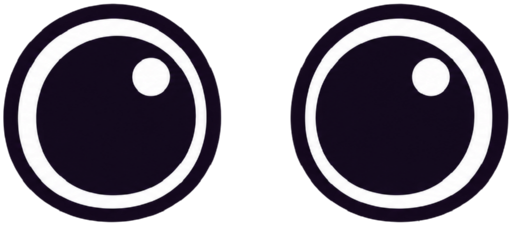
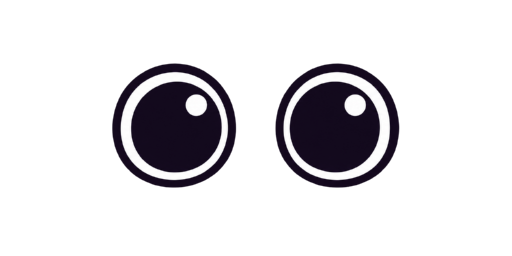
Арт: довольные глаза; cutout --notrim для наборов вариантов

diff --git a/src/config.js b/src/config.js
@@ -136,7 +136,7 @@ export const CONFIG = {
     body: { x: 0, y: 58, artScale: 0.13, originX: 0.5, originY: 1 }, // y — низ лап
     leg: { x: 11, y: 29, artScale: 0.065, artScaleX: 0.09, originX: 0.5, originY: 0.06 },  // x/y — «плечо» левой лапы, правая зеркально
     head: { x: 0, y: -22, artScale: 0.16, artY: -12 },
-    eyes: { x: 0, y: -6, artScale: 0.085 },
+    eyes: { x: 0, y: -6, artScale: 0.146 },  // глаза и рты — без обрезки полей (cutout --notrim), чтобы варианты совпадали
     mouth: { x: 0, y: 10, artScale: 0.14 },
   },
 
